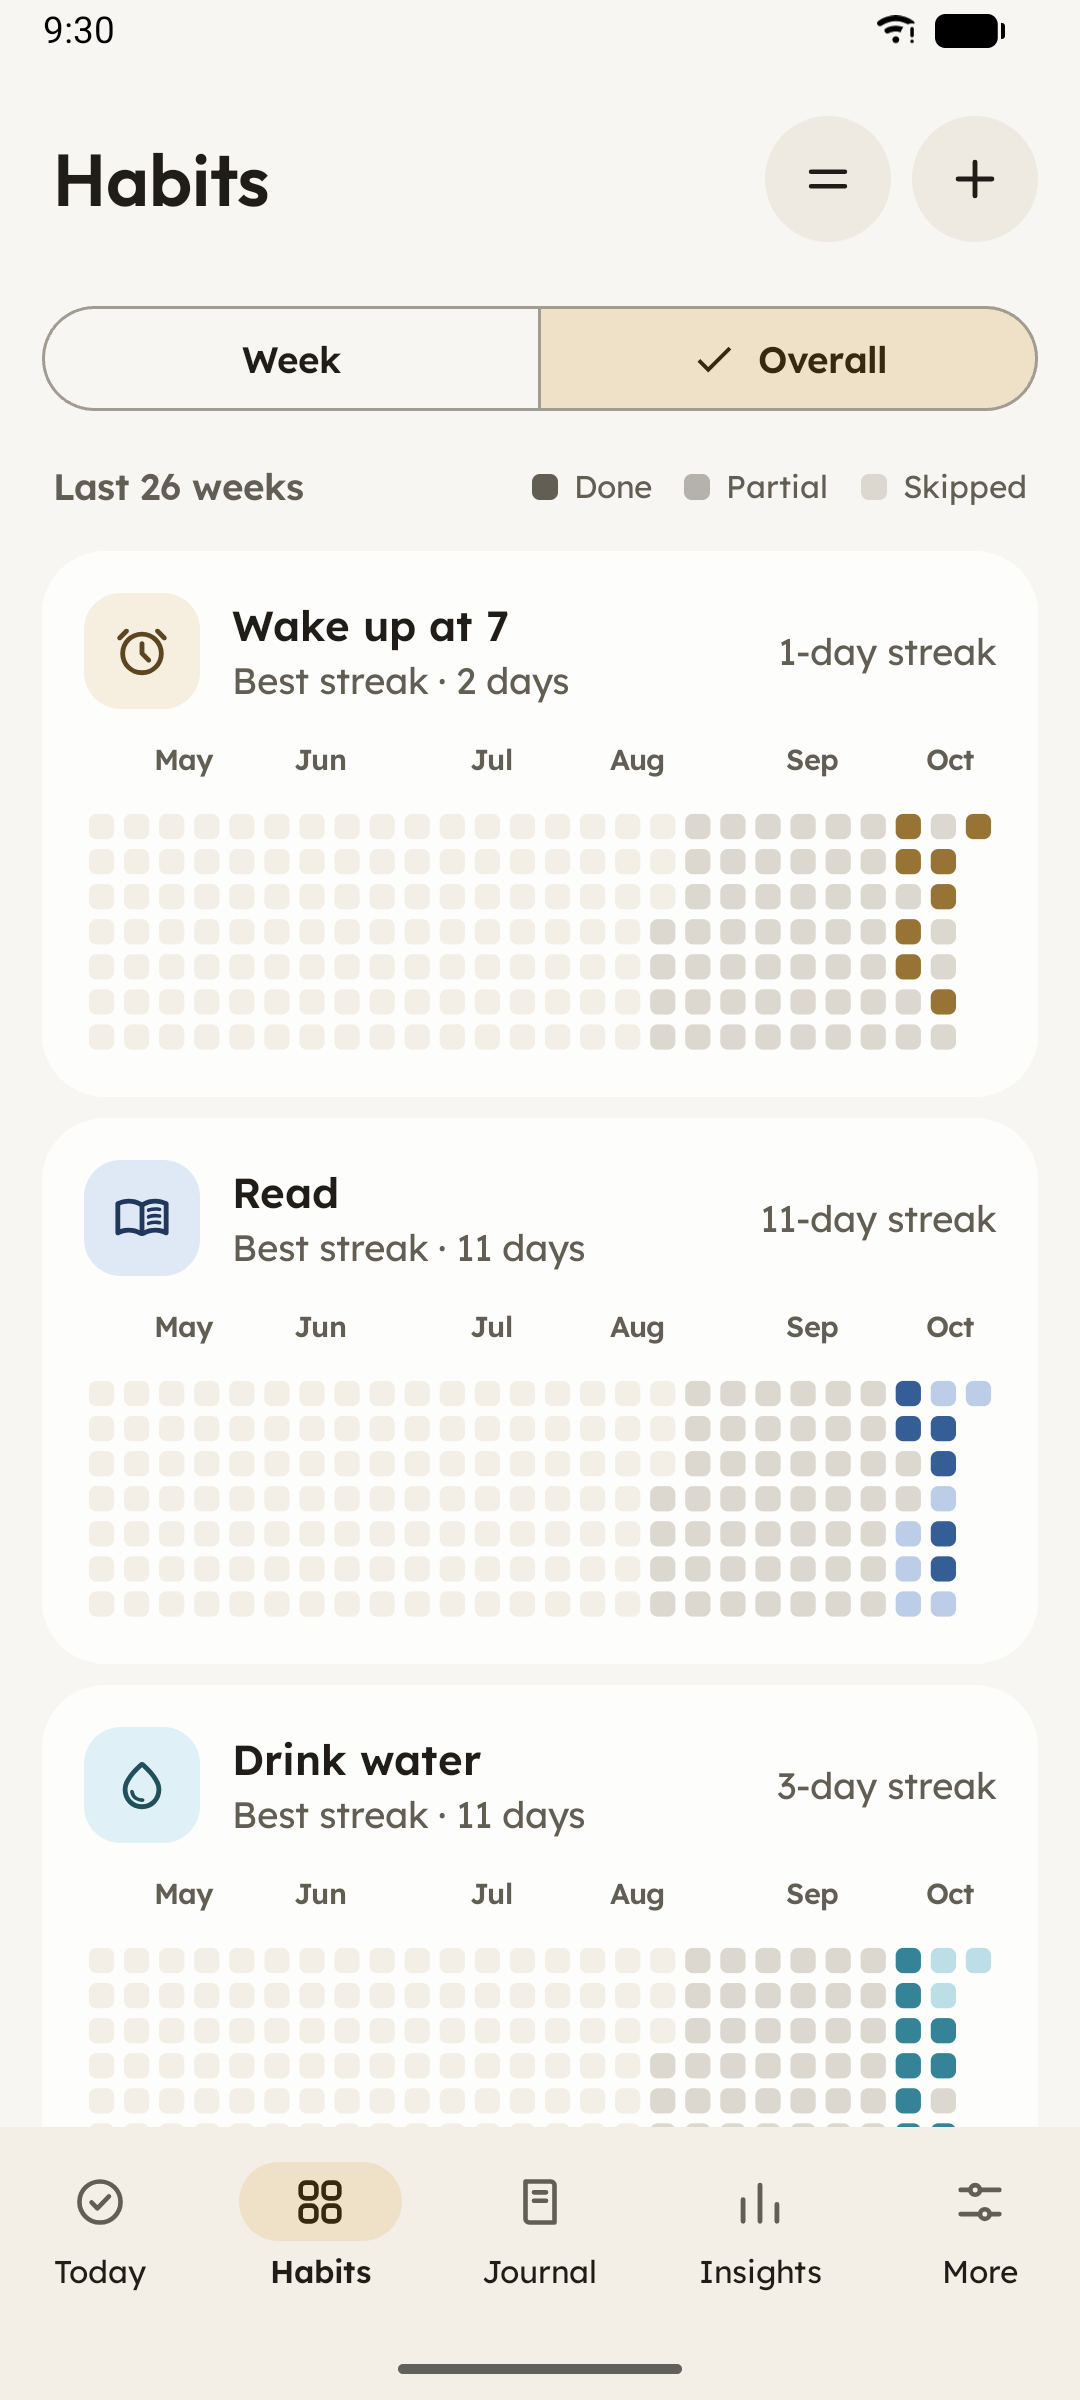
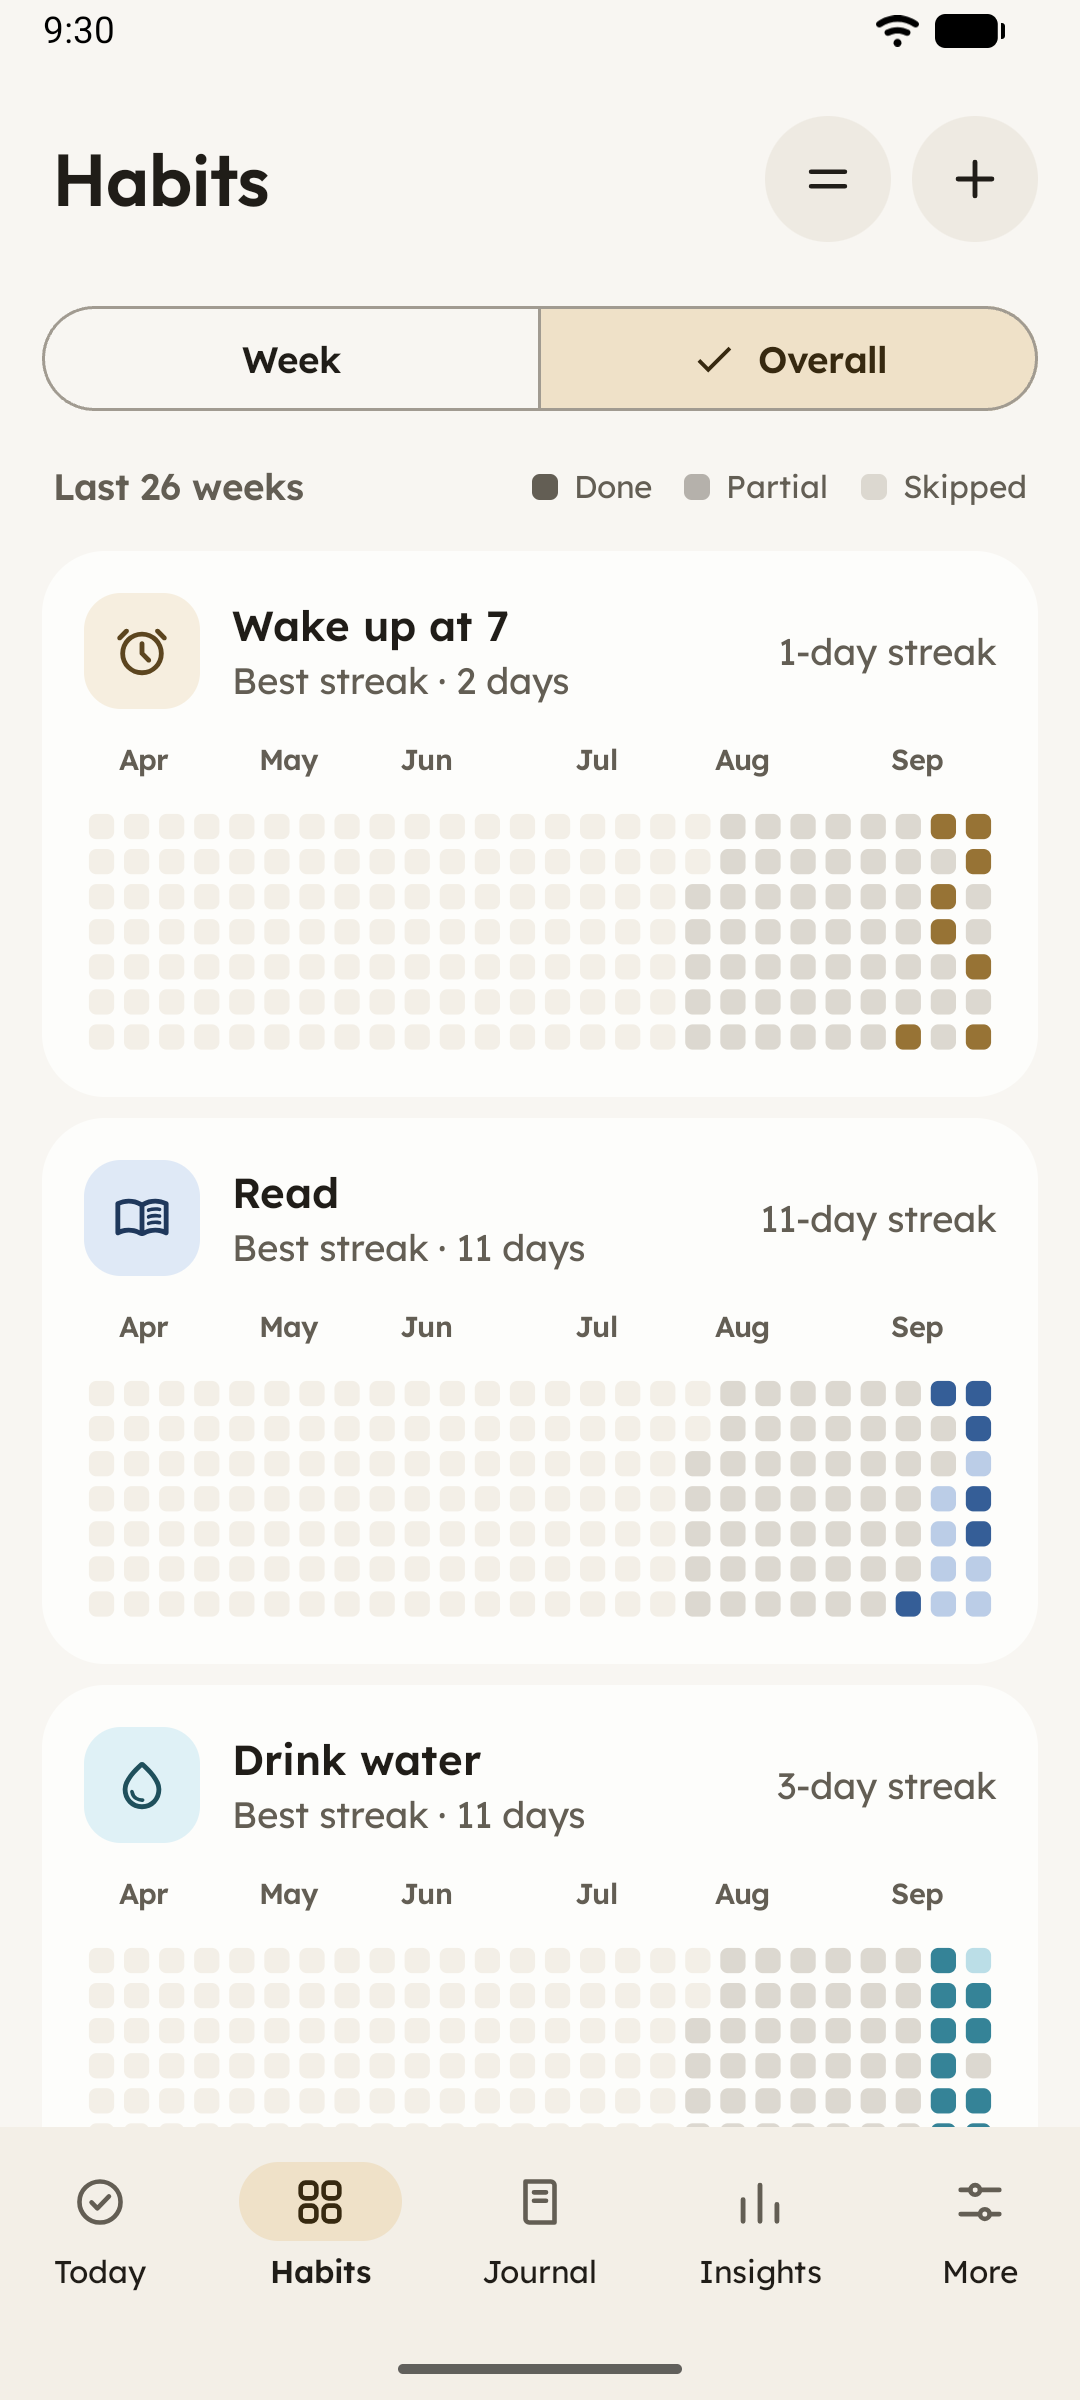
Release 1.3.5
- Fix: on first run, tapping Get started quickly left the "These are sample habits" banner
  hidden above the top of Today. The list goes to the top when the banner arrives.
- README Habit detail and Overall screenshots retaken with the usual staging (27 Sep, sample
  data); the Play Store Habit detail screenshot shows the current streak.

diff --git a/app/src/main/java/app/sprout/habits/ui/today/TodayScreen.kt b/app/src/main/java/app/sprout/habits/ui/today/TodayScreen.kt
@@ -20,6 +20,7 @@ import androidx.compose.foundation.layout.size
 import androidx.compose.foundation.layout.width
 import androidx.compose.foundation.lazy.LazyColumn
 import androidx.compose.foundation.lazy.items
+import androidx.compose.foundation.lazy.rememberLazyListState
 import androidx.compose.foundation.shape.RoundedCornerShape
 import androidx.compose.material3.ExtendedFloatingActionButton
 import androidx.compose.material3.Icon
@@ -27,6 +28,7 @@ import androidx.compose.material3.MaterialTheme
 import androidx.compose.material3.SnackbarHostState
 import androidx.compose.material3.Text
 import androidx.compose.runtime.Composable
+import androidx.compose.runtime.LaunchedEffect
 import androidx.compose.runtime.remember
 import androidx.compose.ui.Alignment
 import androidx.compose.ui.Modifier
@@ -147,8 +149,15 @@ private fun TodayContent(
     Box(Modifier.padding(start = 16.dp, end = 16.dp, top = 12.dp, bottom = 8.dp)) {
  Header(state, onAddHabit) 
     }
+    val listState = rememberLazyListState()
+    // On first run the banner can arrive a moment after the list: it is added above the score
+    // card, and the list would stay on that card with the banner hidden above it.
+    LaunchedEffect(sampleCard != null) {
+        if (sampleCard != null && listState.firstVisibleItemIndex <= 1 && listState.firstVisibleItemScrollOffset == 0) listState.scrollToItem(0)
+    }
     LazyColumn(
         Modifier.weight(1f).fillMaxWidth(),
+        state = listState,
         contentPadding = PaddingValues(start = 16.dp, end = 16.dp, top = 0.dp, bottom = 96.dp),
         verticalArrangement = Arrangement.spacedBy(8.dp),
     ) {

diff --git a/CHANGELOG.md b/CHANGELOG.md
@@ -11,6 +11,7 @@ Fixed:
 
 - Deleting a habit from the Edit screen left an empty screen behind; it now goes back to the tab the habit was opened from.
 - New note: coming back after the system closed the app in the background reset the form to the habit and day it was opened with (from Today, a skipped habit on today's date) and dropped the text, so the note could be saved on the wrong habit and day. The habit, day and text are now kept.
+- First run: tapping Get started quickly could leave the "These are sample habits" banner hidden above the top of Today until you scrolled up.
 
 ## 1.3.4
 
